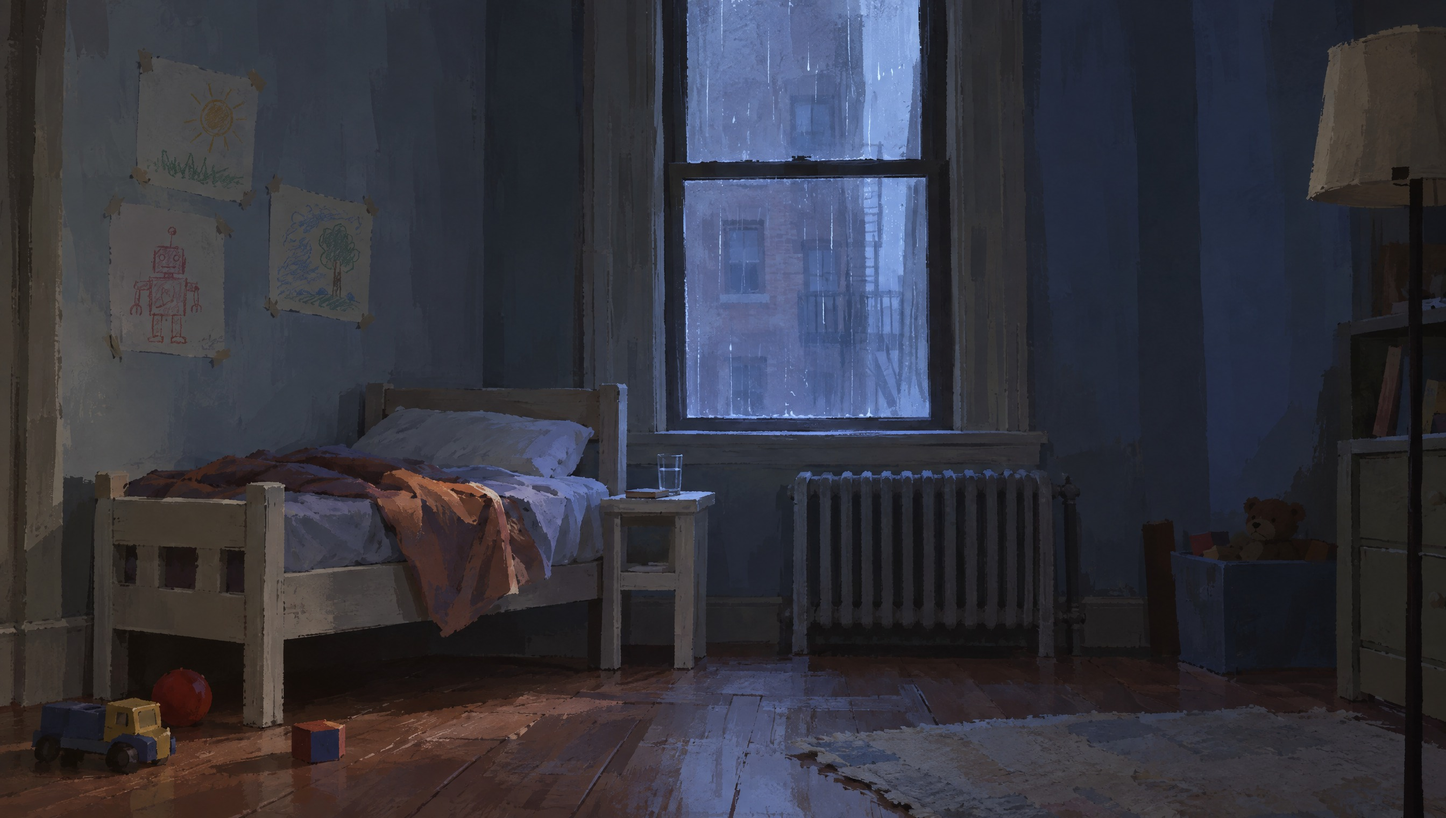
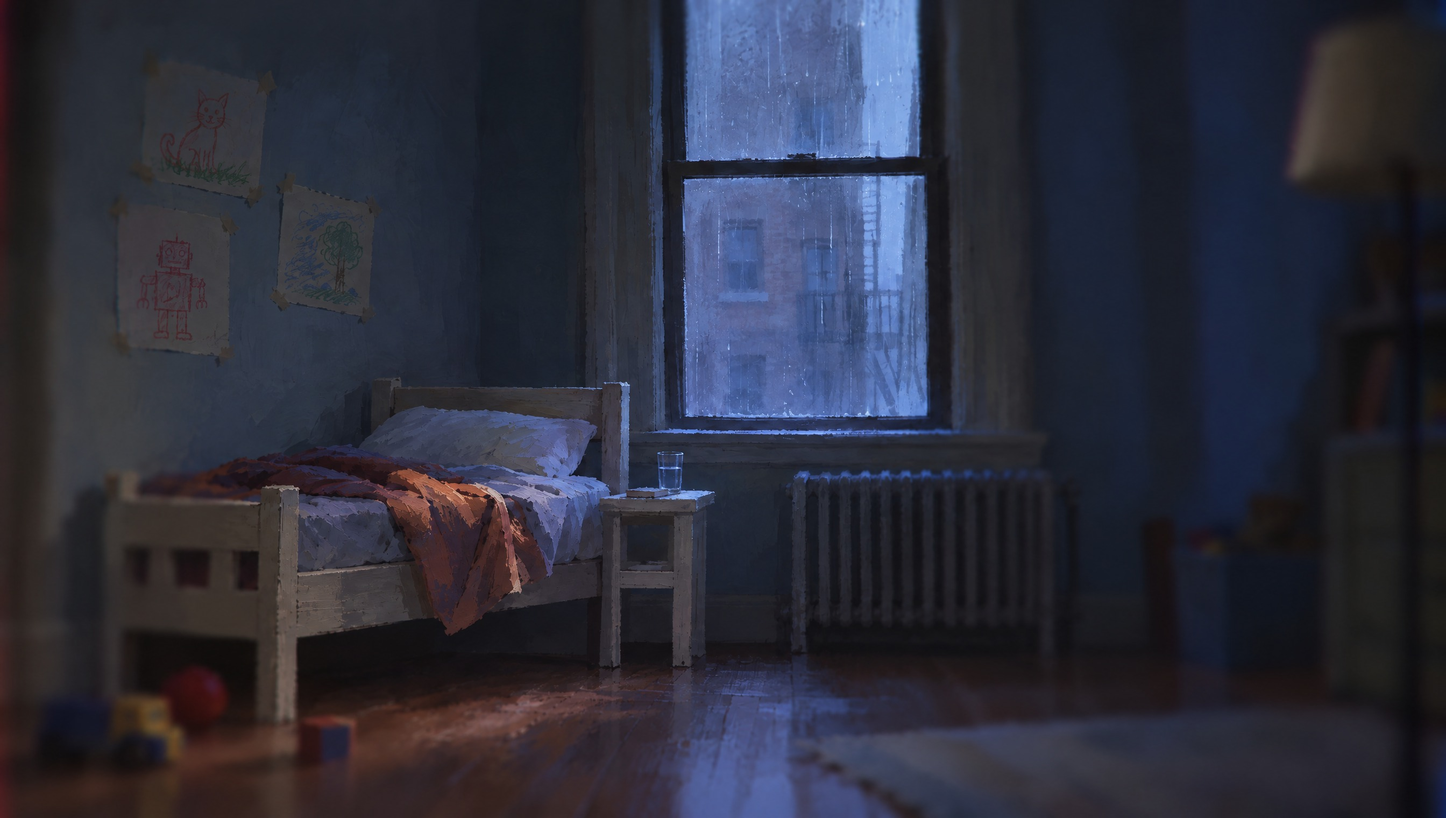
Blue Crayon: cinematic lens falloff on the location plates
The user's location refs keep detail only around the subject and let the
paint go soft and loose toward the edges, with out-of-focus foreground
shapes, dark corners and a faint colour fringe. All six plates are
repainted that way with GPT Image 2.5; the sharp versions move to
assets/locations/sharp/. BRIEF.md gets a Lens section with the prompt
clause to add to every shot, and scripts/lens_pass.py is a light
finishing pass for final frames and clips so the falloff stays the same
across shots. The bedroom's sun drawing is now a cat, so it doesn't give
away the ending.

Claude-Session: https://claude.ai/code/session_01468trLT8GgTVFPGXDPjRF4

diff --git a/videos/blue-crayon/scripts/lens_pass.py b/videos/blue-crayon/scripts/lens_pass.py
@@ -1,0 +1,92 @@
+"""Cinematic lens pass: soften and darken the edges of a frame, keeping the centre sharp.
+
+Matches the location references: detail stays crisp around the subject, then the paint goes
+soft toward the edges and corners, the corners fall off into shadow, and a faint red/blue
+fringe appears at the very edge, like a real lens.
+
+The look is painted into every still by the prompt (see "Lens" in BRIEF.md). This pass is the
+light finishing layer on top: run it at the default strength on every final frame and video
+clip so that all shots end up with the same falloff, even where a video model has sharpened
+the edges again.
+
+    python3 scripts/lens_pass.py OUT_DIR IMAGE [IMAGE ...] [--focus X Y] [--strength S]
+
+--focus moves the sharp centre (0..1 of width and height; default 0.5 0.5).
+--strength scales blur, vignette and fringe together (default 0.5; 1.0 is heavy).
+--letterbox adds black bars down to a 2.39:1 picture.
+"""
+import argparse
+import os
+
+import numpy as np
+from PIL import Image, ImageFilter
+
+
+def smoothstep(a, b, x):
+    t = np.clip((x - a) / (b - a), 0.0, 1.0)
+    return t * t * (3 - 2 * t)
+
+
+def lens_pass(im, focus=(0.5, 0.5), strength=0.5, letterbox=False):
+    im = im.convert("RGB")
+    w, h = im.size
+    src = np.asarray(im, dtype=np.float32) / 255.0
+
+    # Elliptical distance from the focus point: 0 at focus, about 1 at the corners.
+    yy, xx = np.mgrid[0:h, 0:w].astype(np.float32)
+    fx, fy = focus[0] * w, focus[1] * h
+    dx = (xx - fx) / (w * 0.5)
+    dy = (yy - fy) / (h * 0.5)
+    r = np.sqrt(dx * dx + dy * dy) / np.sqrt(2)
+
+    # Two blur levels so the softness builds gradually toward the corners.
+    s1 = max(1.0, w * 0.0035 * strength)
+    s2 = max(1.0, w * 0.0110 * strength)
+    b1 = np.asarray(im.filter(ImageFilter.GaussianBlur(s1)), dtype=np.float32) / 255.0
+    b2 = np.asarray(im.filter(ImageFilter.GaussianBlur(s2)), dtype=np.float32) / 255.0
+    m1 = smoothstep(0.38, 0.70, r)[..., None]
+    m2 = smoothstep(0.62, 1.00, r)[..., None]
+    out = src * (1 - m1) + b1 * m1
+    out = out * (1 - m2) + b2 * m2
+
+    # Faint colour fringe at the edges: red pushed outward, blue pulled inward.
+    fringe = smoothstep(0.55, 1.0, r) * 0.004 * strength
+    def resample(ch, k):
+        sx = np.clip(fx + (xx - fx) * (1 - k * fringe), 0, w - 1).astype(np.int32)
+        sy = np.clip(fy + (yy - fy) * (1 - k * fringe), 0, h - 1).astype(np.int32)
+        return ch[sy, sx]
+    out[..., 0] = resample(out[..., 0], 1.0)
+    out[..., 2] = resample(out[..., 2], -1.0)
+
+    # Vignette: the corners fall away into shadow.
+    vig = 1 - 0.55 * strength * smoothstep(0.45, 1.05, r)
+    out *= np.clip(vig, 0, 1)[..., None]
+
+    out = Image.fromarray((np.clip(out, 0, 1) * 255).astype(np.uint8))
+    if letterbox:
+        bar = max(0, int(round((h - w / 2.39) / 2)))
+        arr = np.asarray(out).copy()
+        arr[:bar] = 0
+        arr[h - bar:] = 0
+        out = Image.fromarray(arr)
+    return out
+
+
+def main():
+    ap = argparse.ArgumentParser()
+    ap.add_argument("out_dir")
+    ap.add_argument("images", nargs="+")
+    ap.add_argument("--focus", nargs=2, type=float, default=(0.5, 0.5))
+    ap.add_argument("--strength", type=float, default=0.5)
+    ap.add_argument("--letterbox", action="store_true")
+    a = ap.parse_args()
+    os.makedirs(a.out_dir, exist_ok=True)
+    for p in a.images:
+        out = lens_pass(Image.open(p), tuple(a.focus), a.strength, a.letterbox)
+        dst = os.path.join(a.out_dir, os.path.basename(p))
+        out.save(dst, quality=92)
+        print("wrote", dst)
+
+
+if __name__ == "__main__":
+    main()

diff --git a/videos/blue-crayon/BRIEF.md b/videos/blue-crayon/BRIEF.md
@@ -165,6 +165,27 @@ The style is a painterly digital illustration, like a frame from an animated fea
 
 The style anchor is `assets/painted/refs/papa_style_ref.jpg`.
 
+### Lens
+
+Every frame is shot through a soft, old lens, as in the location references:
+- Detail is crisp only around the subject.
+- Toward the edges and corners the paint goes loose, soft and blurred.
+- Out-of-focus foreground shapes cut into a corner, such as a parked car, a door frame or a
+  sofa arm.
+- The corners fall off into shadow, with a faint red and blue fringe at the very edges.
+
+Two layers keep this consistent:
+1. **Painted in.** Add this clause to every still and video prompt, naming the shot's own
+   focal point and foreground shape:
+   > Cinematic lens treatment: crisp, detailed brushwork only around [the focal point]; toward
+   > the edges and corners of the frame the painting becomes loose, soft and blurred, with
+   > broad strokes and less detail, like a shallow depth of field; [a foreground object] is a
+   > large out-of-focus shape cutting into a corner; the corners fall off into shadow; a faint
+   > red and blue colour fringe at the very edges of the frame.
+2. **Finishing pass.** Run `scripts/lens_pass.py` at its default strength (0.5) on every
+   final frame and clip, with `--focus` set to the subject. This evens out shots where a
+   video model has sharpened the edges again.
+
 All characters and plates are made with GPT Image 2.5. The characters are in
 `assets/painted/` and shown together on `assets/boards/cast_painted.jpg`:
 - **The boy:** `boy_gpt_a.jpg` (locked).
@@ -175,8 +196,9 @@ All characters and plates are made with GPT Image 2.5. The characters are in
 ### Location plates
 
 Empty backgrounds for every scene are in `assets/locations/`, painted from the references
-below and shown together on `assets/boards/locations_plates.jpg`. The job IDs are in
-`assets/locations/candidates.json`.
+below with the lens falloff (see Lens) and shown together on
+`assets/boards/locations_plates.jpg`. The first, sharp-edged versions are kept in
+`assets/locations/sharp/`. The job IDs are in `assets/locations/candidates.json`.
 
 | Plate | Shots |
 | --- | --- |
